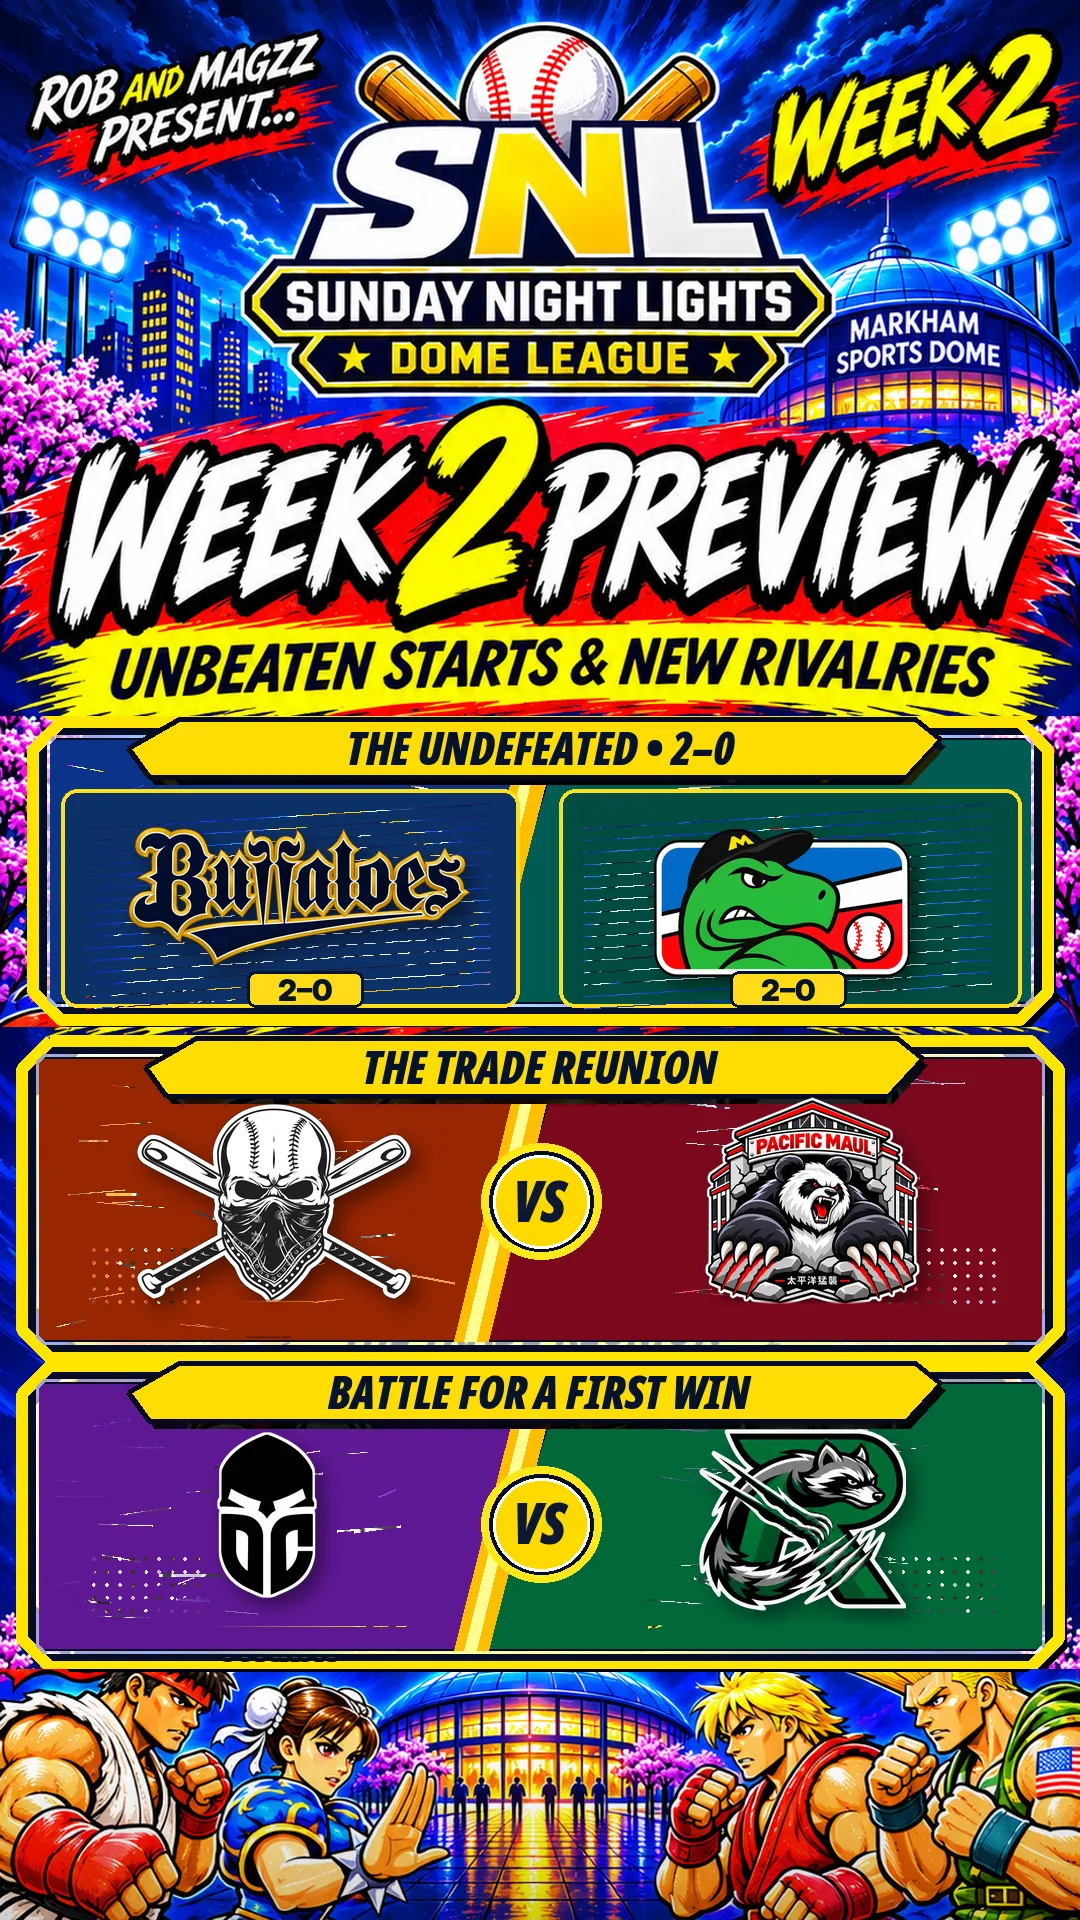
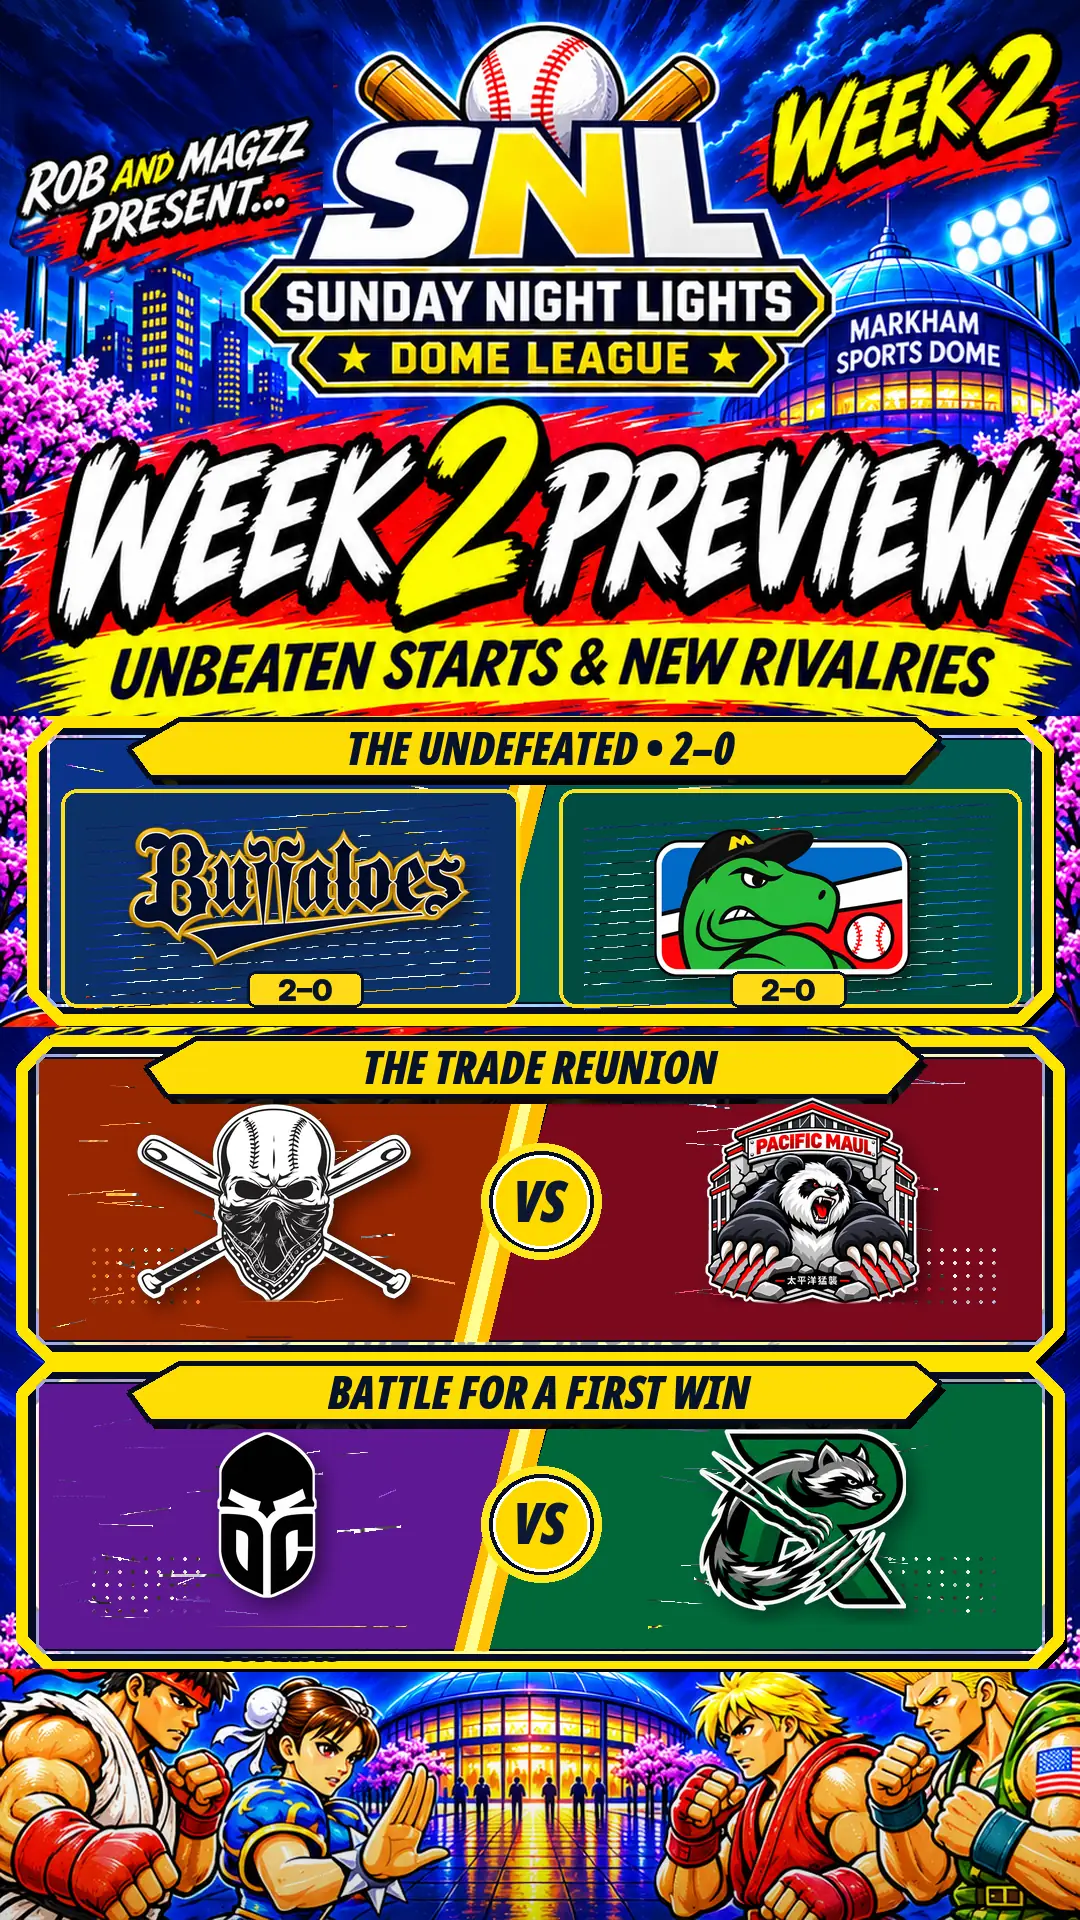
Lower Rob and Magzz credit only in approved Week 2 poster

Changed region(s): [[0.0, 0.0, 0.3056, 0.1562]]

diff --git a/js/main.js b/js/main.js
@@ -320,7 +320,7 @@
 
   function leaders(){return `<div class="leader-cards">${[['Batting Average','AVG'],['Home Runs','HR'],['Runs Batted In','RBI'],['Hits','H']].map(([t,s])=>`<div class="leader-card"><b>${t.toUpperCase()}</b><small>${s}</small><strong>—</strong><span>Awaiting verified player statistics</span></div>`).join('')}</div>`;}
  function storyArt(s){if(s.id==='opener')return `${im('raccoons','one','')}${im('buffaloes','two','')}`;if(s.id==='expansion')return `${im('morsl','one','')}${im('iht','two','')}${im('maul','three','')}`;if(s.id==='trade')return `${im('maul','one','')}${im('iht','two','')}`;return ''}
- function stories(){return `<div class="stories-viewport"><button type="button" class="story-arrow story-arrow-prev" data-story-step="-1" aria-label="Previous featured stories"><span aria-hidden="true">‹</span></button><div class="stories" aria-label="Featured story carousel">${D.stories.map(s=>`<a class="story ${s.id}" href="article.html?id=${s.id}" aria-label="Read ${s.title}"><div class="story-illustration"><img class="story-poster" src="assets/story-${s.id}.webp${s.id==='week2'?'?v=snl-week2-approved-art-20261108':''}" alt="" loading="lazy"></div><span class="story-tag">${s.tag}</span><div class="story-bottom"><h3>${s.title}</h3><small>SNL NEWS · FEATURE</small></div></a>`).join('')}</div><button type="button" class="story-arrow story-arrow-next" data-story-step="1" aria-label="Next featured stories"><span aria-hidden="true">›</span></button></div>`;}
+ function stories(){return `<div class="stories-viewport"><button type="button" class="story-arrow story-arrow-prev" data-story-step="-1" aria-label="Previous featured stories"><span aria-hidden="true">‹</span></button><div class="stories" aria-label="Featured story carousel">${D.stories.map(s=>`<a class="story ${s.id}" href="article.html?id=${s.id}" aria-label="Read ${s.title}"><div class="story-illustration"><img class="story-poster" src="assets/story-${s.id}.webp${s.id==='week2'?'?v=snl-week2-rob-magzz-lowered-20261108':''}" alt="" loading="lazy"></div><span class="story-tag">${s.tag}</span><div class="story-bottom"><h3>${s.title}</h3><small>SNL NEWS · FEATURE</small></div></a>`).join('')}</div><button type="button" class="story-arrow story-arrow-next" data-story-step="1" aria-label="Next featured stories"><span aria-hidden="true">›</span></button></div>`;}
  function home(){return `${hero()}<section class="section" id="featured">${sectionHead('FEATURED','STORIES','VIEW ALL STORIES ›','highlights.html')}${stories()}<div class="newsline"><b>LEAGUE NEWS</b><span class="news-updates"><span><strong>NOV 2</strong> Time slots changed for Weeks 2, 8 &amp; 9. <a class="news-inline-link" href="schedule.html">Check schedule ›</a></span></span><a href="highlights.html#league-news">VIEW ALL NEWS ›</a></div></section><section class="split"><div><div class="section-top"><div><h2>UPCOMING <em>GAMES</em></h2><div class="section-rule"></div></div><a href="schedule.html">VIEW FULL SCHEDULE ›</a></div>${gamesPanel(false)}</div><div><div class="section-top"><div><h2>LEAGUE <em>STANDINGS</em></h2><div class="section-rule"></div></div><a href="standings.html">FULL TABLE ›</a></div>${standingsTable(true)}</div></section><section class="section">${sectionHead('LEAGUE','LEADERS','VIEW ALL STATS ›','stats.html')}<p class="hint" style="margin:0 0 13px">Batting leaderboard preview · GameChanger figures may be inaccurate</p>${leaders()}</section><section class="join-home-prompt"><div><strong>INTERESTED IN JOINING SNL?</strong><p>Bring a team or join as a free agent. Explore your options for future sessions.</p></div><a class="join-home-action" href="join.html">JOIN SNL ›</a></section><section class="flat-card" style="display:flex;align-items:center;justify-content:space-between;gap:18px;flex-wrap:wrap"><div><b style="color:var(--yellow);font-size:13px">PLAYER REGISTRATION &amp; WAIVERS</b><p class="section-note" style="margin:6px 0 0">Roster registration and league waivers are being prepared.</p></div><a class="neutral-link" href="registration.html">HOW IT WILL WORK ›</a></section>`;}
  const pageHero=(a,b,sub='',action='')=>`<div class="page-hero"><div><h1>${a} <em>${b}</em></h1><p>${sub}</p></div>${action}</div>`;
  function schedule(){const active=requestedWeek();return `${pageHero('SNL','SCHEDULE','2026-27 Fall · Markham Sports Dome')}<div class="filters"><button class="filterbtn" data-week="all">All</button>${Array.from({length:10},(_,i)=>i+1).map(w=>`<button class="filterbtn ${w===active?'active':''}" data-week="${w}">Week ${w}</button>`).join('')}</div><div id="scheduleArea">${gamesPanel(true,active)}</div>${feedNotice()}<div class="notice">Ten playing Sundays · Holiday break December 27, 2026. Times and diamonds may change. Check back for the latest schedule.</div>`;}

diff --git a/highlights.html b/highlights.html
@@ -1,2 +1,2 @@
 <!doctype html>
-<html lang="en"><head><meta charset="utf-8"><meta name="viewport" content="width=device-width,initial-scale=1"><meta name="theme-color" content="#06192b"><meta name="description" content="Sunday Night Lights softball league — schedule, standings, teams, highlights and player statistics."><title>Highlights | Sunday Night Lights</title><link rel="stylesheet" href="css/style.css?v=snl-gameday-ticker-20261108"><link rel="stylesheet" href="css/snl-matchups-approved-v4.css?v=morsl-logo-20261105"><link rel="icon" href="assets/favicon.svg" type="image/svg+xml"></head><body data-page="highlights"><div id="siteHeader"></div><main id="app"></main><script src="js/data.js?v=snl-week2-feature-20261108"></script><script src="js/main.js?v=snl-week2-art-final-20261108"></script></body></html>
+<html lang="en"><head><meta charset="utf-8"><meta name="viewport" content="width=device-width,initial-scale=1"><meta name="theme-color" content="#06192b"><meta name="description" content="Sunday Night Lights softball league — schedule, standings, teams, highlights and player statistics."><title>Highlights | Sunday Night Lights</title><link rel="stylesheet" href="css/style.css?v=snl-gameday-ticker-20261108"><link rel="stylesheet" href="css/snl-matchups-approved-v4.css?v=morsl-logo-20261105"><link rel="icon" href="assets/favicon.svg" type="image/svg+xml"></head><body data-page="highlights"><div id="siteHeader"></div><main id="app"></main><script src="js/data.js?v=snl-week2-feature-20261108"></script><script src="js/main.js?v=snl-week2-rob-magzz-lowered-20261108"></script></body></html>

diff --git a/index.html b/index.html
@@ -16,7 +16,7 @@
   <main id="app"></main>
 
   <script src="js/data.js?v=snl-week2-feature-20261108"></script>
-  <script src="js/main.js?v=snl-week2-art-final-20261108"></script>
+  <script src="js/main.js?v=snl-week2-rob-magzz-lowered-20261108"></script>
 
   <script>
   (() => {
